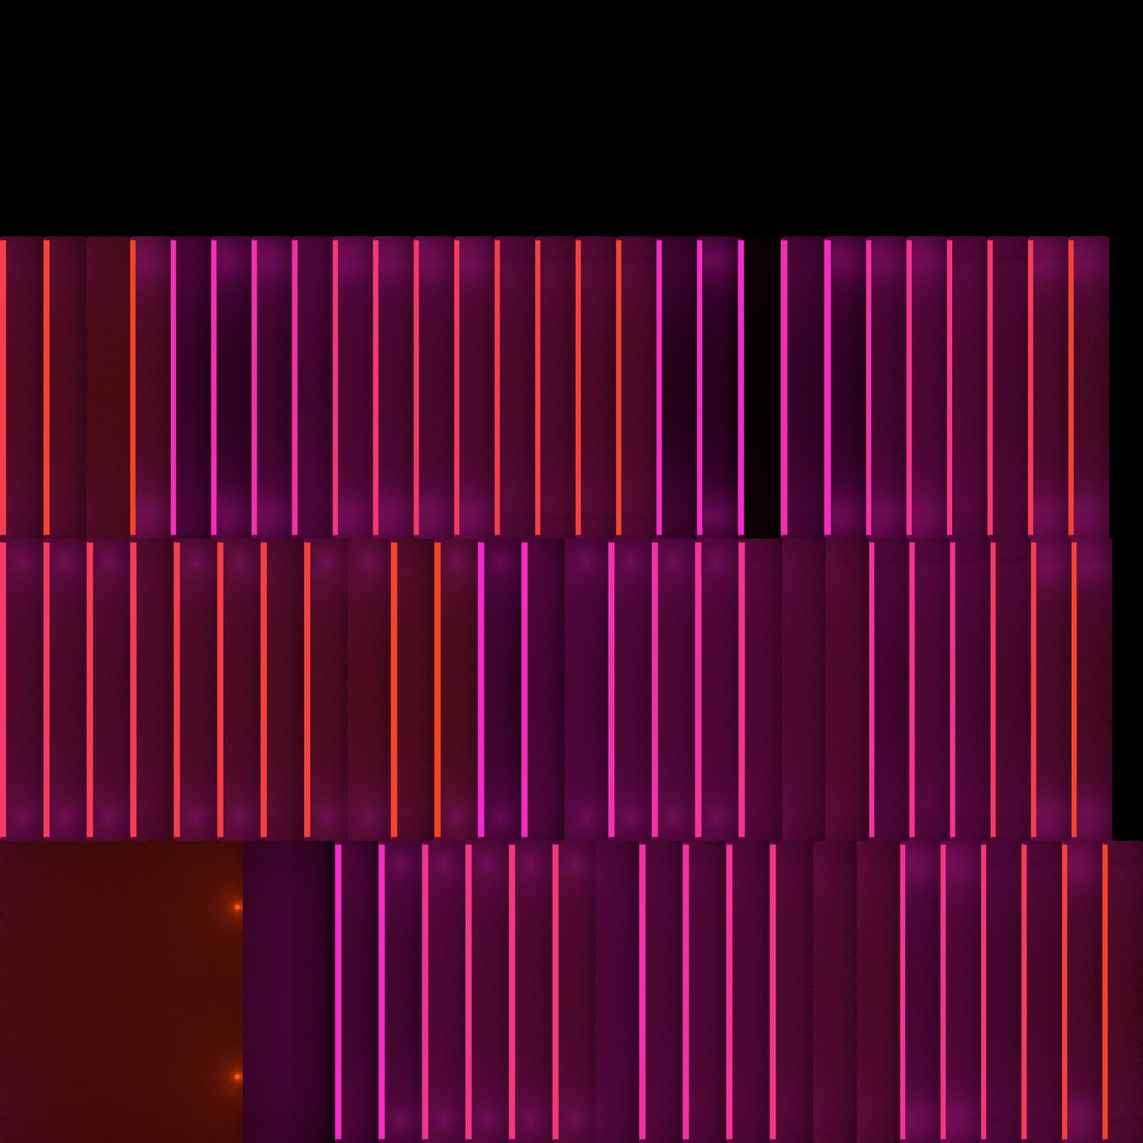
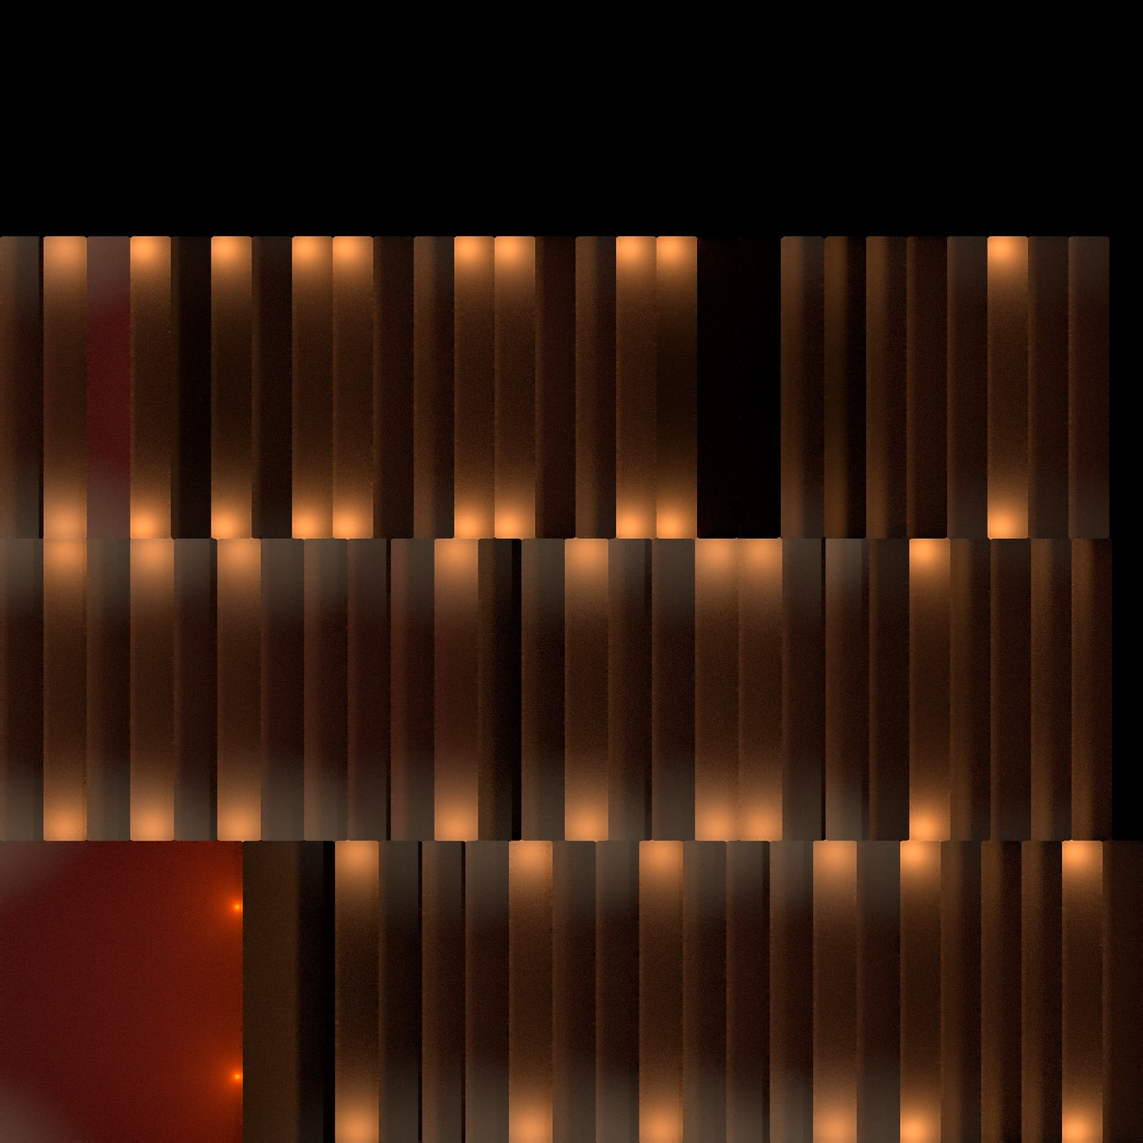
Stairwell: gallery lighting instead of neon
Poster spots, warm step lights in the walls, plain dark ceiling, black steel
balusters, polished dark steps; re-baked. Nothing pulses except a small pink
EPPING above the roof door.

diff --git a/src/entrance/world.ts b/src/entrance/world.ts
@@ -21,8 +21,6 @@ export const stairY = (z: number) => clamp((Z0 - z) / RUN, 0, N) * RISE;
 const C = (hex: string) => new THREE.Color(hex);
 const V = (x: number, y: number) => new THREE.Vector2(x, y);
 const glowMat = (c: THREE.Color) => new THREE.MeshBasicMaterial({ color: c, toneMapped: false, side: THREE.DoubleSide });
-/** Neon colour along the climb: pink at the bottom, orange at the top. */
-const climbColor = (z: number) => C(PAL.b).lerp(C(PAL.a), clamp((Z0 - z) / (Z0 - ROOF_Z)));
 
 function quad(p: THREE.Vector3[], colors?: THREE.Color[]): THREE.BufferGeometry {
   const g = new THREE.BufferGeometry();
@@ -189,7 +187,7 @@ export function buildWorld(): World {
   const signCore = new THREE.Mesh(wm, glow(C(PAL.fg).lerp(C(PAL.b), 0.45).multiplyScalar(1.05)));
   signCore.position.set(0, signY, 0.05); scene.add(signCore);
   const signLight = new THREE.PointLight(C(PAL.b), 14, 9, 2); signLight.position.set(0, signY, 0.8); scene.add(signLight);
-  const leak = new THREE.PointLight(C(PAL.b), 0.5, 1.4, 2); leak.position.set(0, 0.03, 0.7); scene.add(leak); // light from under the door: only washes the pavement in front of it
+  const leak = new THREE.PointLight(C(PAL.b), 0.5, 1.0, 2); leak.position.set(0, 0.03, 0.7); scene.add(leak); // light from under the door: only washes the pavement in front of it
 
   // velvet rope on two brass posts
   const brass = new THREE.MeshStandardMaterial({ color: C(PAL.a).lerp(C('#ffd28a'), 0.5), metalness: 0.85, roughness: 0.3 });
@@ -217,65 +215,26 @@ export function buildWorld(): World {
   const landing = new THREE.Mesh(new THREE.PlaneGeometry(W, -Z0 + 0.4), floorMat); landing.rotation.x = -Math.PI / 2; landing.position.set(0, 0.001, Z0 / 2 - 0.2); scene.add(landing); unbaked.push(landing);
   const top = new THREE.Mesh(new THREE.PlaneGeometry(W, TOP_Z - ROOF_Z + 0.02), floorMat); top.rotation.x = -Math.PI / 2; top.position.set(0, TOP_Y, (TOP_Z + ROOF_Z) / 2); scene.add(top); unbaked.push(top);
 
-  // steps, each with a neon strip on its nose
+  // steps (live-lit until the baked stairwell is in)
   const steps = new THREE.InstancedMesh(new THREE.BoxGeometry(W, RISE, RUN), floorMat, N);
-  const noses = new THREE.InstancedMesh(new THREE.BoxGeometry(W - 0.02, 0.018, 0.025), new THREE.MeshBasicMaterial({ toneMapped: false }), N);
-  const m4 = new THREE.Matrix4(), noseBase: THREE.Color[] = [];
-  for (let i = 0; i < N; i++) {
-    const zf = Z0 - i * RUN;
-    steps.setMatrixAt(i, m4.makeTranslation(0, i * RISE + RISE / 2, zf - RUN / 2));
-    noses.setMatrixAt(i, m4.makeTranslation(0, (i + 1) * RISE - 0.009, zf - 0.012));
-    noseBase.push(climbColor(zf).multiplyScalar(2));
-    noses.setColorAt(i, noseBase[i]);
-  }
-  scene.add(steps, noses); unbaked.push(steps);
+  const m4 = new THREE.Matrix4();
+  for (let i = 0; i < N; i++) steps.setMatrixAt(i, m4.makeTranslation(0, i * RISE + RISE / 2, Z0 - i * RUN - RUN / 2));
+  scene.add(steps); unbaked.push(steps);
 
-  // ceiling: a light ceiling (Sunset rave gradient, pink at the bottom of the stairs → orange at the top, pulsing a little
-  // with the beat) behind black panels in two rows; the light shows through the gaps between them. A black border frame
-  // runs along the walls and the ends, so the panels stop in a frame instead of running into the brick.
+  // Gallery lighting (blender/stairwell.py bakes it): a dark stairwell where every poster has its own warm spotlight,
+  // small warm step lights in both walls every third step, the orange roof-door frame and a small pink EPPING above it.
+  // Nothing here pulses with the beat except that pink sign.
   const cy = (z: number) => (z > Z0 ? 0 : z < TOP_Z ? TOP_Y : stairY(z)) + CEIL;
   const ceilPts = [IN, Z0, TOP_Z, ROOF_Z];
-  const lightMat = glow(C('#ffffff').multiplyScalar(1.1), 0.35); lightMat.vertexColors = true;
+  const ceilMat = new THREE.MeshStandardMaterial({ color: C('#16121a'), roughness: 0.9 });
   for (let k = 0; k < 3; k++) {
-    const za = ceilPts[k], zb = ceilPts[k + 1], ca = climbColor(za), cb = climbColor(zb);
-    scene.add(new THREE.Mesh(quad([new THREE.Vector3(-W / 2, cy(za), za), new THREE.Vector3(W / 2, cy(za), za), new THREE.Vector3(W / 2, cy(zb), zb), new THREE.Vector3(-W / 2, cy(zb), zb)], [ca, ca, cb, cb]), lightMat));
+    const za = ceilPts[k], zb = ceilPts[k + 1];
+    const ceil = new THREE.Mesh(quad([new THREE.Vector3(-W / 2, cy(za), za), new THREE.Vector3(-W / 2, cy(zb), zb), new THREE.Vector3(W / 2, cy(zb), zb), new THREE.Vector3(W / 2, cy(za), za)]), ceilMat);
+    scene.add(ceil); unbaked.push(ceil);
   }
-  {
-    const B = 0.16, G = 0.09, DEPTH = 0.035;                          // border width, light gap, panel depth (m)
-    const PW = (W - 2 * B - 3 * G) / 2;                              // panel width: two rows across
-    const panelMat = new THREE.MeshBasicMaterial({ color: C('#060408') }); // unlit: the blue fill below would otherwise light them up
-    // panel edges catch the light from the gaps (backlit panels), so every gap reads as a light line, even at a steep angle
-    const edgeMat = glow(C('#ffffff').multiplyScalar(0.75), 0.35);
-    type Box = { m: THREE.Matrix4; z: number };
-    const panelBoxes: Box[] = [], frameBoxes: Box[] = [];
-    const xAxis = new THREE.Vector3(1, 0, 0);
-    // a box lying flat against the ceiling of one section: centred at (x, along s), w across, l along
-    const put = (into: Box[], p0: THREE.Vector3, d: THREE.Vector3, x: number, s: number, w: number, l: number) => {
-      const up = xAxis.clone().cross(d), e3 = xAxis.clone().cross(up);
-      const c = p0.clone().addScaledVector(d, s).setX(x).addScaledVector(up, -DEPTH / 2 - 0.004);
-      into.push({ m: new THREE.Matrix4().makeBasis(xAxis, up, e3).setPosition(c).multiply(new THREE.Matrix4().makeScale(w, DEPTH, l)), z: c.z });
-    };
-    for (let k = 0; k < 3; k++) {
-      const p0 = new THREE.Vector3(0, cy(ceilPts[k]), ceilPts[k]), p1 = new THREE.Vector3(0, cy(ceilPts[k + 1]), ceilPts[k + 1]);
-      const d = p1.clone().sub(p0), L = d.length(); d.normalize();
-      for (const x of [-(W - B) / 2, (W - B) / 2]) put(frameBoxes, p0, d, x, L / 2, B, L);  // side frames, unbroken
-      if (k === 0) put(frameBoxes, p0, d, 0, B / 2, W - 2 * B, B);
-      if (k === 2) put(frameBoxes, p0, d, 0, L - B / 2, W - 2 * B, B);
-      const s0 = k === 0 ? B + G : G / 2, s1 = k === 2 ? B + G : G / 2;  // ends: frame + gap at the walls, half a gap at the bends
-      const n = Math.max(1, Math.round((L - s0 - s1 + G) / (PW + G))), len = (L - s0 - s1 - (n - 1) * G) / n;
-      for (let i = 0; i < n; i++) for (const x of [-(G + PW) / 2, (G + PW) / 2]) put(panelBoxes, p0, d, x, s0 + i * (len + G) + len / 2, PW, len);
-    }
-    // BoxGeometry faces: ±x, ±y (top, bottom), ±z; the bottom stays black, the sides glow
-    const panels = new THREE.InstancedMesh(new THREE.BoxGeometry(1, 1, 1), [edgeMat, edgeMat, panelMat, panelMat, edgeMat, edgeMat], panelBoxes.length);
-    panelBoxes.forEach(({ m, z }, i) => { panels.setMatrixAt(i, m); panels.setColorAt(i, climbColor(z)); });
-    const frames = new THREE.InstancedMesh(new THREE.BoxGeometry(1, 1, 1), panelMat, frameBoxes.length);
-    frameBoxes.forEach(({ m }, i) => frames.setMatrixAt(i, m));
-    scene.add(panels, frames); // stay in the baked version too: their glowing edges keep every light line visible
-  }
-  // balustrades like the reference photo: vertical pink neon tubes on every other step, a dark metal handrail on top
-  const railMat = new THREE.MeshStandardMaterial({ color: C('#16121c'), metalness: 0.8, roughness: 0.35 });
-  const tubeMat = glow(C(PAL.b).multiplyScalar(2.8));
-  const balusters = new THREE.InstancedMesh(new THREE.CylinderGeometry(0.016, 0.016, 0.82, 8), tubeMat, N + 2);
+  // black steel balusters on every other step, a black steel handrail on top
+  const railMat = new THREE.MeshStandardMaterial({ color: C('#16141a'), metalness: 0.8, roughness: 0.35 });
+  const balusters = new THREE.InstancedMesh(new THREE.CylinderGeometry(0.01, 0.01, 0.82, 8), railMat, N + 2);
   let bi0 = 0;
   for (let i = 0; i < N; i += 2) for (const side of [-1, 1]) {
     const z = Z0 - i * RUN - RUN / 2;
@@ -286,11 +245,15 @@ export function buildWorld(): World {
     const x = side * (W / 2 - 0.14), h = (z: number) => (z > Z0 ? 0 : z < TOP_Z ? TOP_Y : stairY(z)) + 0.9;
     scene.add(tube(new THREE.Vector3(x, h(Z0), Z0), new THREE.Vector3(x, h(TOP_Z), TOP_Z), 0.024, railMat));
   }
+  // step lights: small warm slots in both walls, every third step (same spots as in the bake)
+  const slotGeo = new THREE.BoxGeometry(0.01, 0.03, 0.12), slotMat = glowMat(C('#ffa860').multiplyScalar(0.95));
+  for (let i = 1; i < N; i += 3) for (const side of [-1, 1]) {
+    const slot = new THREE.Mesh(slotGeo, slotMat); slot.position.set(side * (W / 2 - 0.004), (i + 1) * RISE + 0.18, Z0 - i * RUN - RUN / 2); scene.add(slot);
+  }
 
-  // The stairwell is lit by what you can see glowing: the ceiling (soft area lights just under it, one per stretch, in the
-  // gradient, pulsing with the ceiling). The neon balusters and step edges only glow.
+  // live light until the bake is in: a dim warm glow along the ceiling
   RectAreaLightUniformsLib.init();
-  const ceilLights: { l: THREE.RectAreaLight; base: number }[] = [];
+  const ceilLights: THREE.RectAreaLight[] = [];
   {
     const pieces: [number, number][] = [[IN, Z0]];
     for (let k = 0; k < 4; k++) pieces.push([lerp(Z0, TOP_Z, k / 4), lerp(Z0, TOP_Z, (k + 1) / 4)]);
@@ -298,15 +261,15 @@ export function buildWorld(): World {
     for (const [za, zb] of pieces) {
       const a = new THREE.Vector3(0, cy(za), za), b = new THREE.Vector3(0, cy(zb), zb), d = b.clone().sub(a);
       const down = d.clone().normalize().cross(new THREE.Vector3(1, 0, 0)).normalize(); // ceiling normal, pointing into the room
-      const l = new THREE.RectAreaLight(climbColor((za + zb) / 2), 3.5, W - 0.4, d.length());
+      const l = new THREE.RectAreaLight(C('#ffb070'), 1.2, W - 0.4, d.length());
       l.position.copy(a).add(b).multiplyScalar(0.5).addScaledVector(down, 0.08);
       l.up.copy(d).normalize(); l.lookAt(l.position.clone().add(down));
-      scene.add(l); ceilLights.push({ l, base: 3.5 });
+      scene.add(l); ceilLights.push(l);
     }
   }
 
   // posters: a pair at each spot, one on each wall, facing each other, hung high above the balustrade
-  const loader = new THREE.TextureLoader();
+  const loader = new THREE.TextureLoader(), lensMat = glowMat(C('#ffd8b0').multiplyScalar(1.4));
   POSTERS.forEach((pair, i) => {
     const z = lerp(Z0 - 0.9, TOP_Z + 0.6, i / Math.max(1, POSTERS.length - 1));
     pair.forEach(({ src, aspect = 1 }, s) => {
@@ -319,6 +282,11 @@ export function buildWorld(): World {
         m.position.set(side * (W / 2 - off), stairY(z) + 1.95, z);
         scene.add(m);
       }
+      const h = stairY(z) + 1.95, at = new THREE.Vector3(side * (W / 2 - 0.6), h + 0.8, z);
+      const dir = new THREE.Vector3(side * W / 2, h - 0.08, z).sub(at).normalize();
+      scene.add(tube(new THREE.Vector3(side * W / 2, h + 0.8, z), at, 0.008, railMat));
+      scene.add(tube(at.clone().addScaledVector(dir, -0.04), at.clone().addScaledVector(dir, 0.08), 0.035, railMat));
+      scene.add(tube(at.clone().addScaledVector(dir, 0.08), at.clone().addScaledVector(dir, 0.083), 0.028, lensMat));
     });
   });
 
@@ -326,19 +294,21 @@ export function buildWorld(): World {
   const topShape = new THREE.Shape([V(-W / 2, TOP_Y), V(-0.55, TOP_Y), V(-0.55, TOP_Y + 2.2), V(0.55, TOP_Y + 2.2), V(0.55, TOP_Y), V(W / 2, TOP_Y), V(W / 2, TOP_Y + CEIL + 0.2), V(-W / 2, TOP_Y + CEIL + 0.2)]);
   const topWall = new THREE.Mesh(new THREE.ShapeGeometry(topShape), brickMat(1, 1)); // shape UVs are in metres
   topWall.position.z = ROOF_Z; scene.add(topWall); unbaked.push(topWall);
-  const frameMat = glow(C(PAL.a).multiplyScalar(2.6)); // orange: the colour the climb ends in
+  const frameMat = glowMat(C(PAL.a).multiplyScalar(2.6)); // orange: the colour the climb ends in
   const fz = ROOF_Z + 0.02;
   for (const [a, b] of [[[-0.57, 0], [-0.57, 2.22]], [[0.57, 0], [0.57, 2.22]], [[-0.57, 2.22], [0.57, 2.22]]] as const)
     scene.add(tube(new THREE.Vector3(a[0], TOP_Y + a[1], fz), new THREE.Vector3(b[0], TOP_Y + b[1], fz), 0.016, frameMat));
+  const roofSign = new THREE.Mesh(wordmarkGeometry(0.8), glow(C(PAL.b).multiplyScalar(1.25), 0.4)); // the only thing in here that moves with the beat
+  roofSign.position.set(0, TOP_Y + 2.52, ROOF_Z + 0.03); scene.add(roofSign);
   const roofDoor = new THREE.Group(), roofLeaf = new THREE.Mesh(new THREE.BoxGeometry(1.1, 2.2, 0.05), new THREE.MeshStandardMaterial({ color: C(PAL.bg).lerp(C(PAL.fg), 0.1), roughness: 0.5 }));
   roofLeaf.position.set(0.55, 1.1, 0); roofDoor.add(roofLeaf);
   roofDoor.position.set(-0.55, TOP_Y, ROOF_Z - 0.03); scene.add(roofDoor);
 
   // The baked stairwell (blender/stairwell.py): streams in while the visitor is still outside, then replaces the live-lit
-  // walls, steps, ceiling panels and roof door. Its light pulses with the beat through lightMapIntensity.
+  // walls, steps, ceiling and roof door. Its light stays still (no beat).
   const LM_GAIN = 16, ROOF_GAIN = 8; // overall brightness of the baked light (three.js divides light maps by π, and the textures are dark)
   const bakedMats: { m: THREE.MeshStandardMaterial; base: number; pulse: number }[] = [];
-  const reflective: THREE.MeshStandardMaterial[] = [];
+  const reflective: THREE.MeshStandardMaterial[] = [railMat]; // black steel reads by what it reflects
   let stairsIn = false, rendererRef: THREE.WebGLRenderer | null = null;
   const captureStairs = (renderer: THREE.WebGLRenderer) => { // what the polished steps and the door handle reflect
     const rt = new THREE.WebGLCubeRenderTarget(256, { type: THREE.HalfFloatType });
@@ -372,16 +342,15 @@ export function buildWorld(): World {
   async function loadStairwell() {
     const meshes = await loadBaked('stair', 'stairwell.glb', '__STAIR_GLB__', {
       walls: () => new THREE.MeshStandardMaterial({ map: tex('red_brick_03_diff_web.jpg', true), normalMap: tex('red_brick_03_nor_web.jpg', false), roughnessMap: tex('red_brick_03_rough_web.jpg', false), color: C('#a07a72'), roughness: 1 }),
-      floor: () => { const m = new THREE.MeshStandardMaterial({ map: tex('concrete_pavement_02_diff_web.jpg', true), color: C('#6a5f78'), roughness: 0.28, metalness: 0.1, envMapIntensity: 0.7 }); reflective.push(m); return m; },
-      ceiling: () => new THREE.MeshStandardMaterial({ color: C('#0b080d'), roughness: 0.8 }),
+      floor: () => { const m = new THREE.MeshStandardMaterial({ map: tex('concrete_pavement_02_diff_web.jpg', true), color: C('#4a4446'), roughness: 0.3, metalness: 0.1, envMapIntensity: 0.9 }); reflective.push(m); return m; },
+      ceiling: () => new THREE.MeshStandardMaterial({ color: C('#3a3036'), roughness: 0.9 }),
       roof_leaf: () => new THREE.MeshStandardMaterial({ color: C('#1a181c'), roughness: 0.85 }), // plain matte black
       roof_handle: () => { const m = new THREE.MeshStandardMaterial({ color: C('#d6d6dc'), roughness: 0.25, metalness: 0.9 }); reflective.push(m); return m; },
-    }, LM_GAIN, 0.5);
+    }, LM_GAIN, 0);
     for (const mesh of meshes) if (mesh.name.startsWith('roof_')) roofDoor.attach(mesh); // swings with the door
-    for (const mesh of meshes) if (mesh.name === 'ceiling') mesh.visible = false;      // the live panels (lit edges) read better
     (roofLeaf.material as THREE.Material).visible = false;                               // stays as the click target
     for (const o of unbaked) o.visible = false;
-    for (const c of ceilLights) c.l.visible = false;
+    for (const l of ceilLights) l.visible = false;
     stairsIn = true;
     if (rendererRef) captureStairs(rendererRef);
   }
@@ -480,18 +449,14 @@ export function buildWorld(): World {
   // ---------- behaviour ----------
   // the street door opens outward (toward you) so the stairwell stays clear; the roof door opens onto the roof
   const setDoors = (street: number, roof: number) => { streetDoor.rotation.y = -street * 1.85; roofDoor.rotation.y = roof * 1.85; };
-  const tmp = new THREE.Color();
   function update(t: number, kick: number, camera: THREE.Camera) {
     sky.position.copy(camera.position);
     block.visible = camera.position.y < 5;
     const k = 0.6 + 0.4 * kick;
     for (const p of pulse) p.mat.color.copy(p.base).multiplyScalar(lerp(1, k, p.k));
-    for (let i = 0; i < N; i++) noses.setColorAt(i, tmp.copy(noseBase[i]).multiplyScalar(k));
-    noses.instanceColor!.needsUpdate = true;
-    for (const c of ceilLights) c.l.intensity = c.base * lerp(1, k, 0.35); // same pulse as the glowing ceiling
     for (const b of bakedMats) b.m.lightMapIntensity = b.base * lerp(1, k, b.pulse); // the baked light pulses too
     const flicker = Math.sin(t * 13) > 0.94 ? 0.35 : 1;
-    signLight.intensity = 14 * k * flicker; signCore.visible = flicker > 0.5;
+    signLight.intensity = 14 * k * flicker * clamp((camera.position.z - 0.2) / 1.3); // fades out in the doorway: its highlight would sit on the polished steps signCore.visible = flicker > 0.5;
     leak.intensity = 0.5 * k;
     leds.forEach((l, i) => (l.visible = Math.sin(t * 8 + i * 1.7) > -0.2));
     for (const m of smoke) {

diff --git a/blender/stairwell.py b/blender/stairwell.py
@@ -1,8 +1,9 @@
 # Builds the stairwell in Blender, bakes its light into lightmaps and exports public/models/stairwell.glb
 # + public/models/lightmaps/stair_*.jpg. Same measurements as src/entrance/world.ts.
-# The only light comes from what glows: the ceiling between the black panels (Sunset rave gradient), the neon step
-# edges, the neon balusters and the orange frame around the roof door. Those emitters are bake-only: three.js draws
-# (and pulses) its own versions; the .glb holds the lit surfaces (walls, steps, ceiling panels, roof door).
+# Gallery lighting: a dark stairwell where each poster has its own warm spotlight (spilling onto the bricks around
+# it), small warm step lights set into the walls every third step, the orange frame around the roof door and a small
+# pink EPPING above it. The emitters are bake-only: three.js draws its own versions; the .glb holds the lit surfaces
+# (walls, steps, ceiling, roof door).
 # Run: blender -b --factory-startup --python blender/stairwell.py   (add -- --quick for a fast test bake)
 #
 # Coordinates: all geometry is written in three.js coordinates (y up, the climb goes toward -z) and converted with
@@ -28,8 +29,6 @@ PINK, ORANGE = (1.0, 0.169, 0.839), (1.0, 0.302, 0.0)   # PAL.b, PAL.a (sRGB)
 
 def srgb2lin(c): return tuple(((v + 0.055) / 1.055) ** 2.4 if v > 0.04045 else v / 12.92 for v in c)
 def mix(a, b, t): return tuple(x + (y - x) * t for x, y in zip(a, b))
-def climb(z):  # pink at the bottom of the stairs, orange at the top (linear light)
-    return srgb2lin(mix(PINK, ORANGE, min(1, max(0, (Z0 - z) / (Z0 - ROOF_Z)))))
 def stair_y(z): return min(N, max(0, (Z0 - z) / RUN)) * RISE
 def floor_y(z): return 0 if z > Z0 else TOP_Y if z < TOP_Z else stair_y(z)
 def cy(z): return floor_y(z) + CEIL
@@ -53,15 +52,16 @@ def mat(name, rgb, rough=0.6, metal=0.0, emit=None, strength=0.0, attr_emit=Fals
     return m
 
 BRICK = mat('stair_brick', (0.30, 0.12, 0.08), 0.9)          # base colours only matter for bounce light
-FLOOR = mat('stair_floor', (0.06, 0.055, 0.075), 0.35)
-PANEL = mat('ceil_panel', (0.02, 0.018, 0.022), 0.8)
+FLOOR = mat('stair_floor', (0.05, 0.045, 0.045), 0.2)       # polished dark (three.js adds the reflections)
+PANEL = mat('ceil_panel', (0.05, 0.04, 0.04), 0.9)           # plain dark ceiling, lit only by bounce
 DOOR = mat('roof_door', (0.025, 0.024, 0.027), 0.8)          # plain matte black
 HANDLE = mat('roof_handle', (0.6, 0.6, 0.62), 0.25)           # baked matte (metal has no diffuse light); three.js makes it metal
-GLOW = mat('glow_ceiling', (0, 0, 0), 1, 0, strength=4.0, attr_emit=True)
-NEON = mat('glow_neon', (0, 0, 0), 1, 0, strength=6.0, attr_emit=True)
+WARM = (1.0, 0.62, 0.32)                                      # step lights (sRGB)
+STEPL = mat('glow_step', (0, 0, 0), 1, 0, emit=srgb2lin(WARM), strength=12.0)
+SIGN = mat('glow_sign', (0, 0, 0), 1, 0, emit=srgb2lin(PINK), strength=3.0)
 FRAME = mat('glow_frame', (0, 0, 0), 1, 0, emit=srgb2lin(ORANGE), strength=10.0)
 BAKED = ['stair_brick', 'stair_floor', 'ceil_panel', 'roof_door', 'roof_handle']   # exported + baked
-EMITTERS = ['glow_ceiling', 'glow_neon', 'glow_frame']                              # bake-only
+EMITTERS = ['glow_step', 'glow_sign', 'glow_frame']                              # bake-only
 
 # ---------------------------------------------------------------- mesh building (faces collected per object)
 meshes = {}
@@ -118,43 +118,32 @@ for i in range(N):
     zf, zb, y0, y1 = Z0 - i * RUN, Z0 - (i + 1) * RUN, i * RISE, (i + 1) * RISE
     face('floor', FLOOR, [(-W / 2, y0, zf), (W / 2, y0, zf), (W / 2, y1, zf), (-W / 2, y1, zf)])        # riser, faces +z
     face('floor', FLOOR, [(-W / 2, y1, zf), (W / 2, y1, zf), (W / 2, y1, zb), (-W / 2, y1, zb)][::-1])  # tread, faces up
-    # neon strip on the nose (bake-only light)
-    box('neon', NEON, (0, y1 - 0.009, zf - 0.012), (W - 0.02, 0.018, 0.025), color=climb(zf))
 face('floor', FLOOR, [(-W / 2, TOP_Y, TOP_Z), (W / 2, TOP_Y, TOP_Z), (W / 2, TOP_Y, ROOF_Z), (-W / 2, TOP_Y, ROOF_Z)][::-1])
 
-# ---------------------------------------------------------------- neon balusters (bake-only) every other step
-for i in range(0, N, 2):
-    z = Z0 - i * RUN - RUN / 2
+# ---------------------------------------------------------------- step lights in both walls, every third step (bake-only emitters + a small light each)
+STEP_LIGHTS = []
+for i in range(1, N, 3):
+    z, y = Z0 - i * RUN - RUN / 2, (i + 1) * RISE + 0.18
     for side in (-1, 1):
-        x, y = side * (W / 2 - 0.14), (i + 1) * RISE + 0.45
-        cylinder('neon', NEON, (x, y - 0.41, z), (x, y + 0.41, z), 0.016, srgb2lin(PINK))
+        box('steplight', STEPL, (side * (W / 2 - 0.004), y, z), (0.01, 0.03, 0.12))
+        STEP_LIGHTS.append((side * (W / 2 - 0.06), y - 0.01, z))
 
-# ---------------------------------------------------------------- ceiling: glowing gradient surface, black panels + frame in front
-B, G, DEPTH = 0.16, 0.09, 0.035
-PW = (W - 2 * B - 3 * G) / 2
-xa = Vector((1, 0, 0))
+# ---------------------------------------------------------------- ceiling: one plain dark surface following the stairs
 for k in range(3):
     za, zb = ZS[k], ZS[k + 1]
-    face('ceiling_glow', GLOW, [(-W / 2, cy(za), za), (-W / 2, cy(zb), zb), (W / 2, cy(zb), zb), (W / 2, cy(za), za)][::-1], None)
-bm, _, glow_layer = meshes['ceiling_glow']
-for v in bm.verts:
-    v[glow_layer] = (*climb(-v.co.y), 1)   # Blender y = -three z
+    face('ceiling', PANEL, [(-W / 2, cy(za), za), (-W / 2, cy(zb), zb), (W / 2, cy(zb), zb), (W / 2, cy(za), za)][::-1])
 
-for k in range(3):
-    za, zb = ZS[k], ZS[k + 1]
-    p0, p1 = Vector((0, cy(za), za)), Vector((0, cy(zb), zb))
-    d = p1 - p0; L = d.length; d.normalize()
-    up = xa.cross(d); e3 = xa.cross(up)
-    def put(x, s, w, l):
-        c = p0 + d * s - up * (DEPTH / 2 + 0.004); c.x = x
-        box('ceiling', PANEL, tuple(c), (w, DEPTH, l), (xa, up, e3))
-    for x in (-(W - B) / 2, (W - B) / 2): put(x, L / 2, B, L)          # frame along the walls
-    if k == 0: put(0, B / 2, W - 2 * B, B)
-    if k == 2: put(0, L - B / 2, W - 2 * B, B)
-    s0, s1 = (B + G if k == 0 else G / 2), (B + G if k == 2 else G / 2)
-    n = max(1, round((L - s0 - s1 + G) / (PW + G))); ln = (L - s0 - s1 - (n - 1) * G) / n
-    for i in range(n):
-        for x in (-(G + PW) / 2, (G + PW) / 2): put(x, s0 + i * (ln + G) + ln / 2, PW, ln)
+# ---------------------------------------------------------------- poster spots: one per poster (7 pairs, as POSTERS in world.ts)
+NPOST = 7
+def lerp(a, b, t): return a + (b - a) * t
+SPOTS = []
+for i in range(NPOST):
+    z = lerp(Z0 - 0.9, TOP_Z + 0.6, i / (NPOST - 1)); h = stair_y(z) + 1.95
+    for side in (-1, 1):
+        SPOTS.append(((side * (W / 2 - 0.6), h + 0.8, z), (side * W / 2, h - 0.08, z)))
+
+# pink EPPING sign above the roof door (three.js draws the letters; this is its glow on the bricks)
+box('sign', SIGN, (0, TOP_Y + 2.52, ROOF_Z + 0.03), (0.8, 0.16, 0.02))
 
 # ---------------------------------------------------------------- roof door: orange neon frame (bake-only), plain matte black door, lever on the right
 fz = ROOF_Z + 0.02
@@ -169,9 +158,19 @@ cylinder('handle', HANDLE, (hx + 0.005, hy + 0.04, hz + 0.06), (hx - 0.13, hy + 
 
 # ---------------------------------------------------------------- objects
 objs = {}
+def add_light(kind, name, pos, energy, color, size, aim=None, spot=None):
+    ld = bpy.data.lights.new(name, kind); ld.energy = energy; ld.color = srgb2lin(color); ld.shadow_soft_size = size
+    if spot: ld.spot_size, ld.spot_blend = spot
+    ob = bpy.data.objects.new(name, ld); ob.location = T(*pos); scene.collection.objects.link(ob)
+    if aim: ob.rotation_euler = (T(*aim) - T(*pos)).to_track_quat('-Z', 'Y').to_euler()
+for k, (pos, aim) in enumerate(SPOTS):
+    add_light('SPOT', f'spot{k}', pos, 40, (1.0, 0.85, 0.69), 0.05, aim, (math.radians(72), 1.0))
+for k, pos in enumerate(STEP_LIGHTS):
+    add_light('POINT', f'step{k}', pos, 1.2, WARM, 0.02)
+
 for name, (bm, m, _) in meshes.items():
     bm.normal_update()
-    if name in ('walls', 'floor'):  # room surfaces face the inside of the stairwell
+    if name in ('walls', 'floor', 'ceiling'):  # room surfaces face the inside of the stairwell
         for f in bm.faces:
             c = f.calc_center_median(); z3 = -c.y                    # back to three.js z
             inside = T(0, floor_y(z3) + 1.5, z3 + 0.5)
